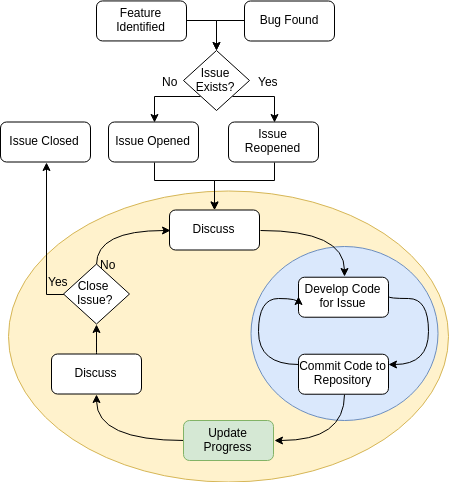
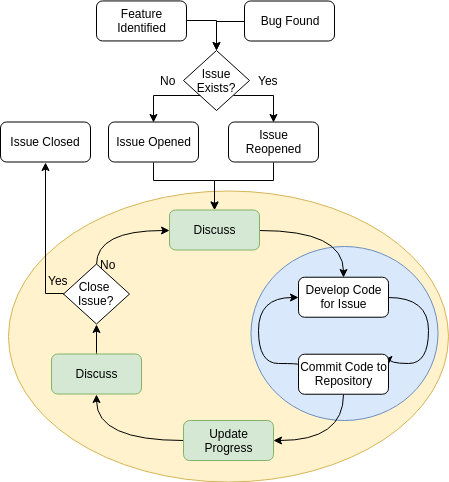
Completed Second Final Draft

diff --git a/dissertation/mproj.tex b/dissertation/mproj.tex
@@ -442,27 +442,29 @@ The same poor performance is exibited when building the issue tracker history. E
 \centering
   \caption{Build Performance of SCIIT for Several Open Source Git Repositories}
   \label{table:build-performance}
-  \begin{tabular}{ | p{3cm} | p{3cm} | p{3cm} | p{3cm} | p{3cm} }
+  \begin{tabular}{ | p{2.5cm} | p{2.5cm} | p{2.5cm} | p{2.5cm} | p{2.5cm} | }
 
     \hline
-    \textbf{REPOSITORY NAME} & \textbf{TOTAL FILES} & \textbf{TOTAL COMMITS} & \textbf{BUILD DURATION (secs)}  & \textbf{AVG. PER. 100 COMMITS (secs)} \\ \hline
+    \textbf{REPOSITORY NAME} & \textbf{TOTAL FILES} & \textbf{TOTAL\newline COMMITS} & \textbf{BUILD\newline DURATION}  & \textbf{AVG. PER. 100 COMMITS (secs)} \\ \hline
     Bottle & 210 & 2,014 & 1 min 59 secs & 5.9 secs \\ \hline
-    Flask & 257 & 3,422 & 4 mins 30 secs & 7.9 secs \\ \hline
-    Vue & 622 & 5,716 & 3 mins 28 secs & 3.6 sec \\ \hline
-    React & 1,087 & 13,686 & 30 mins 7 secs & 13.2 secs \\ \hline
-    AngularJs & 7,768 & 13,971 &  1 hr 24 mins 19 secs & 36.2 secs \\ \hline
-    Tensorflow & 13,332 & 37,940 & 4 hrs 30 mins 30 secs & 42.77 secs \\ \hline
-    Docker & 11,347 & 43,648 & 2 hrs 2 mins & 16.77 secs \\ \hline
-    Git & 3,401 & 54,488 & 1 hr 24 mins 15 secs & 9.28 secs \\ \hline
+    Flask & 257 & 3,422 & 1 mins 38 secs & 2.8 secs \\ \hline
+    Vue & 622 & 5,716 & 2 mins 46 secs & 2.9 sec \\ \hline
+    React & 1,087 & 13,686 & 13 mins 48 secs & 6 secs \\ \hline
+    AngularJs & 7,768 & 13,971 &  49 mins 28 secs & 21.2 secs \\ \hline
+    Tensorflow & 13,332 & 37,940 & 3 hrs 29 mins 20 secs & 33.1 secs \\ \hline
+    Docker & 11,347 & 43,648 & 2 hrs 2 mins & 16.8 secs \\ \hline
+    Git & 3,401 & 54,488 & 1 hr 25 mins 57 secs & 9.4 secs \\ \hline
 
   \end{tabular}
 \end{table}
 
-Table \ref{table:build-performance} shows the performance of building issue repositories for various open source Git repositories. As we can see from the Tensorflow repository compared to others, the time taken to process the repository is dependent on the number of file changes of a commit and the number of block comments utilised. This repository contains 13,332 files. The python files in this project contain many block comments and therefore a lot of time is spent searching those blocks. This is due to the fact that docstrings were used to define block comments in the python programming language as it does not have such an interface.
+Table \ref{table:build-performance} shows the performance of building issue repositories for various open source Git repositories. We must note that this test scans repositories that do not contain any embbedded issues to be created on the file system as these are mature projects that do not utilise SCIIT. Therefore, the results are used for comparision of scanning purposes only as repositories contain the same characteristic of no embedded issues.
 
-Additionally, we see that projects that contain a large number of source code files take a longer time to build. Commits to these projects contains many changes per file and therefore there is an performance cost for decompressing the raw contents of the file represented by the Git object (blob) for this commit. 
+As we can see from the Tensorflow repository compared to others, the time taken to process the repository is dependent on the number of file changes of a commit and the number of block comments utilised. The python files in this project contain many block comments and therefore a lot of time is spent searching those blocks. This is due to the fact that docstrings were used to define block comments in the python programming language as it does not have such an interface. The programming language in this case also adds to the performance issue as there is no other mechanism for suitably creating block comments.
 
-To further illustrate the performance, Figure \ref{} shows the build process of the repositories based duration vs commits.
+Additionally, we see that projects that contain a large number of source code files take a longer time to build. Commits to these projects contains many changes per file and therefore there is an performance cost for decompressing the raw contents of the file represented by the Git object (blob) for this commit. The Git source code repository from the table shows that although there may be a large number of commits, if the commits must span a large number of file changes as represented by the number of source code files, the performace will be poor. On average, scanning this repository consumes less time than others due to this characteristic.
+
+This performance issue must be dealt with in future releases of the software so that developers can easily build their issue repository along with thier issue repository. With a more mature system this may include storing issue repository objects along with git objects on a remote server such that when the developer pulls or clones the VCS repository they get the full issue repository as well. This will eliminate the need to build the issue repository.
 
 \section{Reduced Issue Tracking Process}
 
@@ -470,13 +472,18 @@ This section discusses the reduction of steps required in the issue tracking pro
 
 \begin{figure}
 \centering
-  \caption{Bug Tracking Process}
-  \includegraphics[width=15cm]{sciit-tracker-shot}
-  \label{fig:sciit-tracker-shot}
+  \caption{Bug Tracking Process Flowchart}
+  \includegraphics[width=10cm]{process-flowchart}
+  \label{fig:process-flowchart}
 \end{figure}
-Figure \ref{} shows the steps that is reduced in colour. and shows exactly where developers gain benefit from using SCIIT. 
 
-\section{Software Testing} % should I bother having a testing section
+Figure \ref{fig:process-flowchart} shows the steps that is required in order to implement an issue. The steps that are reduced by the use of SCIIT are highlghted green and shows exactly where developers gain benefit from using SCIIT. The blue area shows the work that is done within version control to implement the details of the issue. It is an iterative process and each commit will automatically update progress on the issue.
+
+Updating the progress as a manaual step in traditional issue trackers pose the problem of developers prioritising other work and not including the information. This must be done for each commit such that a detailed history of work done can be later identified and discussed. Since this step is no longer a manual task done by the developer, they save the time, focus and effort required to update the progress. They also retain the benefit of having a detailed history of work done.
+
+The disscussion points before and after implementing code are also streamlined. Developers get an accurate description of the work done to implement the issue which helps in making decisions on what must be done next or the status of the issue. Through integration with the VCS it is also distributed to all members of the team when the code is accessed further encouraging discussion. SCIIT helps to make the entire development process simpler, reducing friction at points where focus must be shifted from one development task to another.
+
+\section{Software Testing} 
 
 This section describes in detail the testing strategy that was used to verify the design and validity of SCIIT. The software is tested after the implementation of each desired feature this allows for regression testing with features already implemented. The test suite also utilises many mocks which mask the dependencies on other code in the system. Each test that requires access to the full Git repository is mocked out such that the test suite would finish running in sufficient time. Lastly, continuous integration (CI) practices are used to run the test suite as regression testing each time code is committed.
 
@@ -545,6 +552,8 @@ Commit activities is another area in which the system can be improved. Currently
 This leads to the need for context-aware and programming language specific mechanisms that mark when work on an issue is actually started. Context-aware mechanisms can be implemented through a marker on the issue to identify its state such as future work, work in progress, or paused state. This way commit activity can be attributed to the accurate state of an issue which does not depend solely on its existence in the source code.
 
 Programming language-specific mechanisms can also be used to identify when work done on the source code relates to the issue. For example, issues present in a module or function block will have dependencies on other modules or functions. If the source code of the dependency has changed, then SCIIT can identify this as a commit activity on the issue.
+
+To overcome the perfomance issue specifically in building the issue tracker, a intermediate cache can be implemented. This cache can be stored at tagged git commits. These tagged commits provide the best reference from which to store the cache as they mainly represent major releases of software products. At these points, the software is unlikely to undergo any changes in previous commits. The cache will allow older issue tracker information to be quickly accessible to developers.
 
 These additional features will make the SCIIT system more robust and attune to the needs of both development teams and other software product stakeholders.
 
